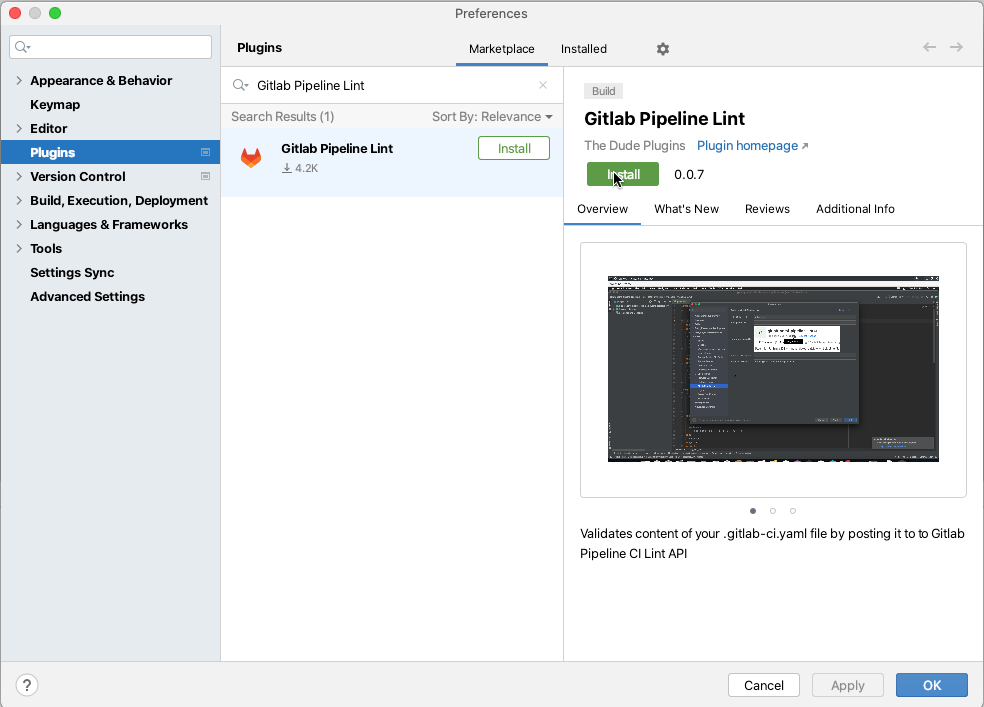
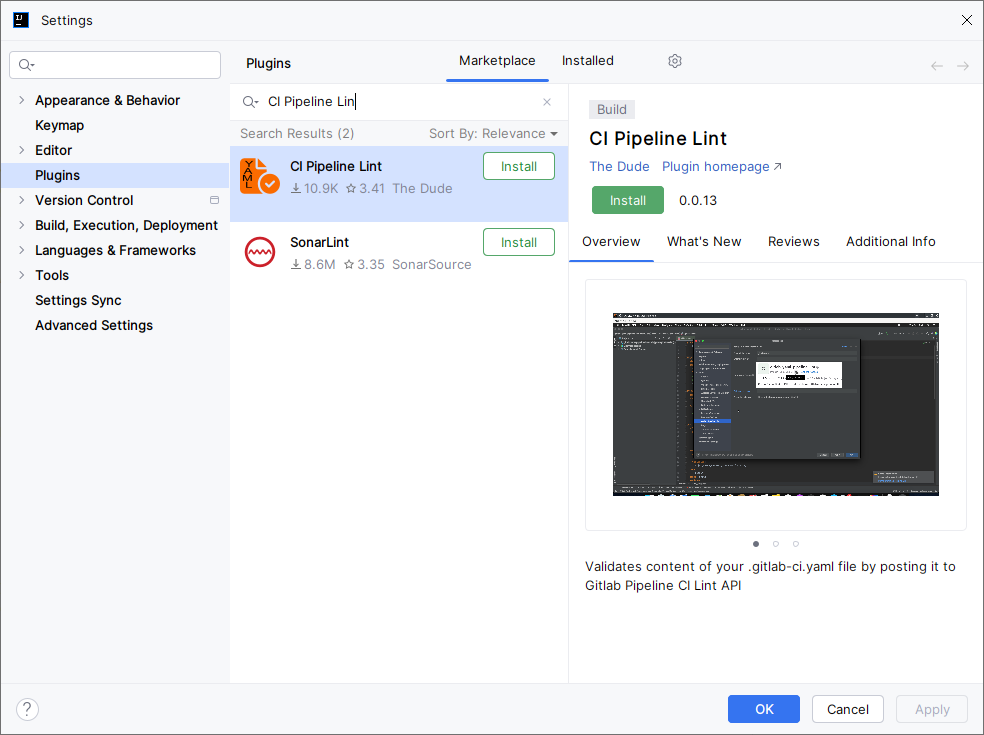
Update screenshots and Writerside docs

diff --git a/Writerside/topics/starter-topic.md b/Writerside/topics/starter-topic.md
@@ -28,7 +28,7 @@ To setup this configuration go to
 
 1. Gitlab host: default to https://gitlab.com , change it if using a private or self hosted instance
 2. Gitlab Project ID: To obtain the Project ID go to a gitlab repository you own and at the top, below the project name the Project ID is displayed, there is also a copy button next to the Project ID. Gitlab 16.0 [deprecated](https://docs.gitlab.com/ee/api/lint.html#validate-the-ci-yaml-configuration-deprecated) the global lint endpoint, and now is per project, that's why a Project ID is now required.
-3. Access token: create a Gitlab personal access token with api access, the link on the label will open the browser at [https://gitlab.com/-/profile/personal_access_tokens](https://gitlab.com/-/profile/personal_access_tokens) to obtain a token if needed. 
+3. Access token: create a Gitlab personal access token with api access, the link on the label will open the browser at [https://gitlab.com/-/user_settings/personal_access_tokens](https://gitlab.com/-/user_settings/personal_access_tokens) to create a token. 
 
 Alternatively, whenever the plugin is invoked with incomplete configuration, the settings can be entered by clicking on the notification link:
 
